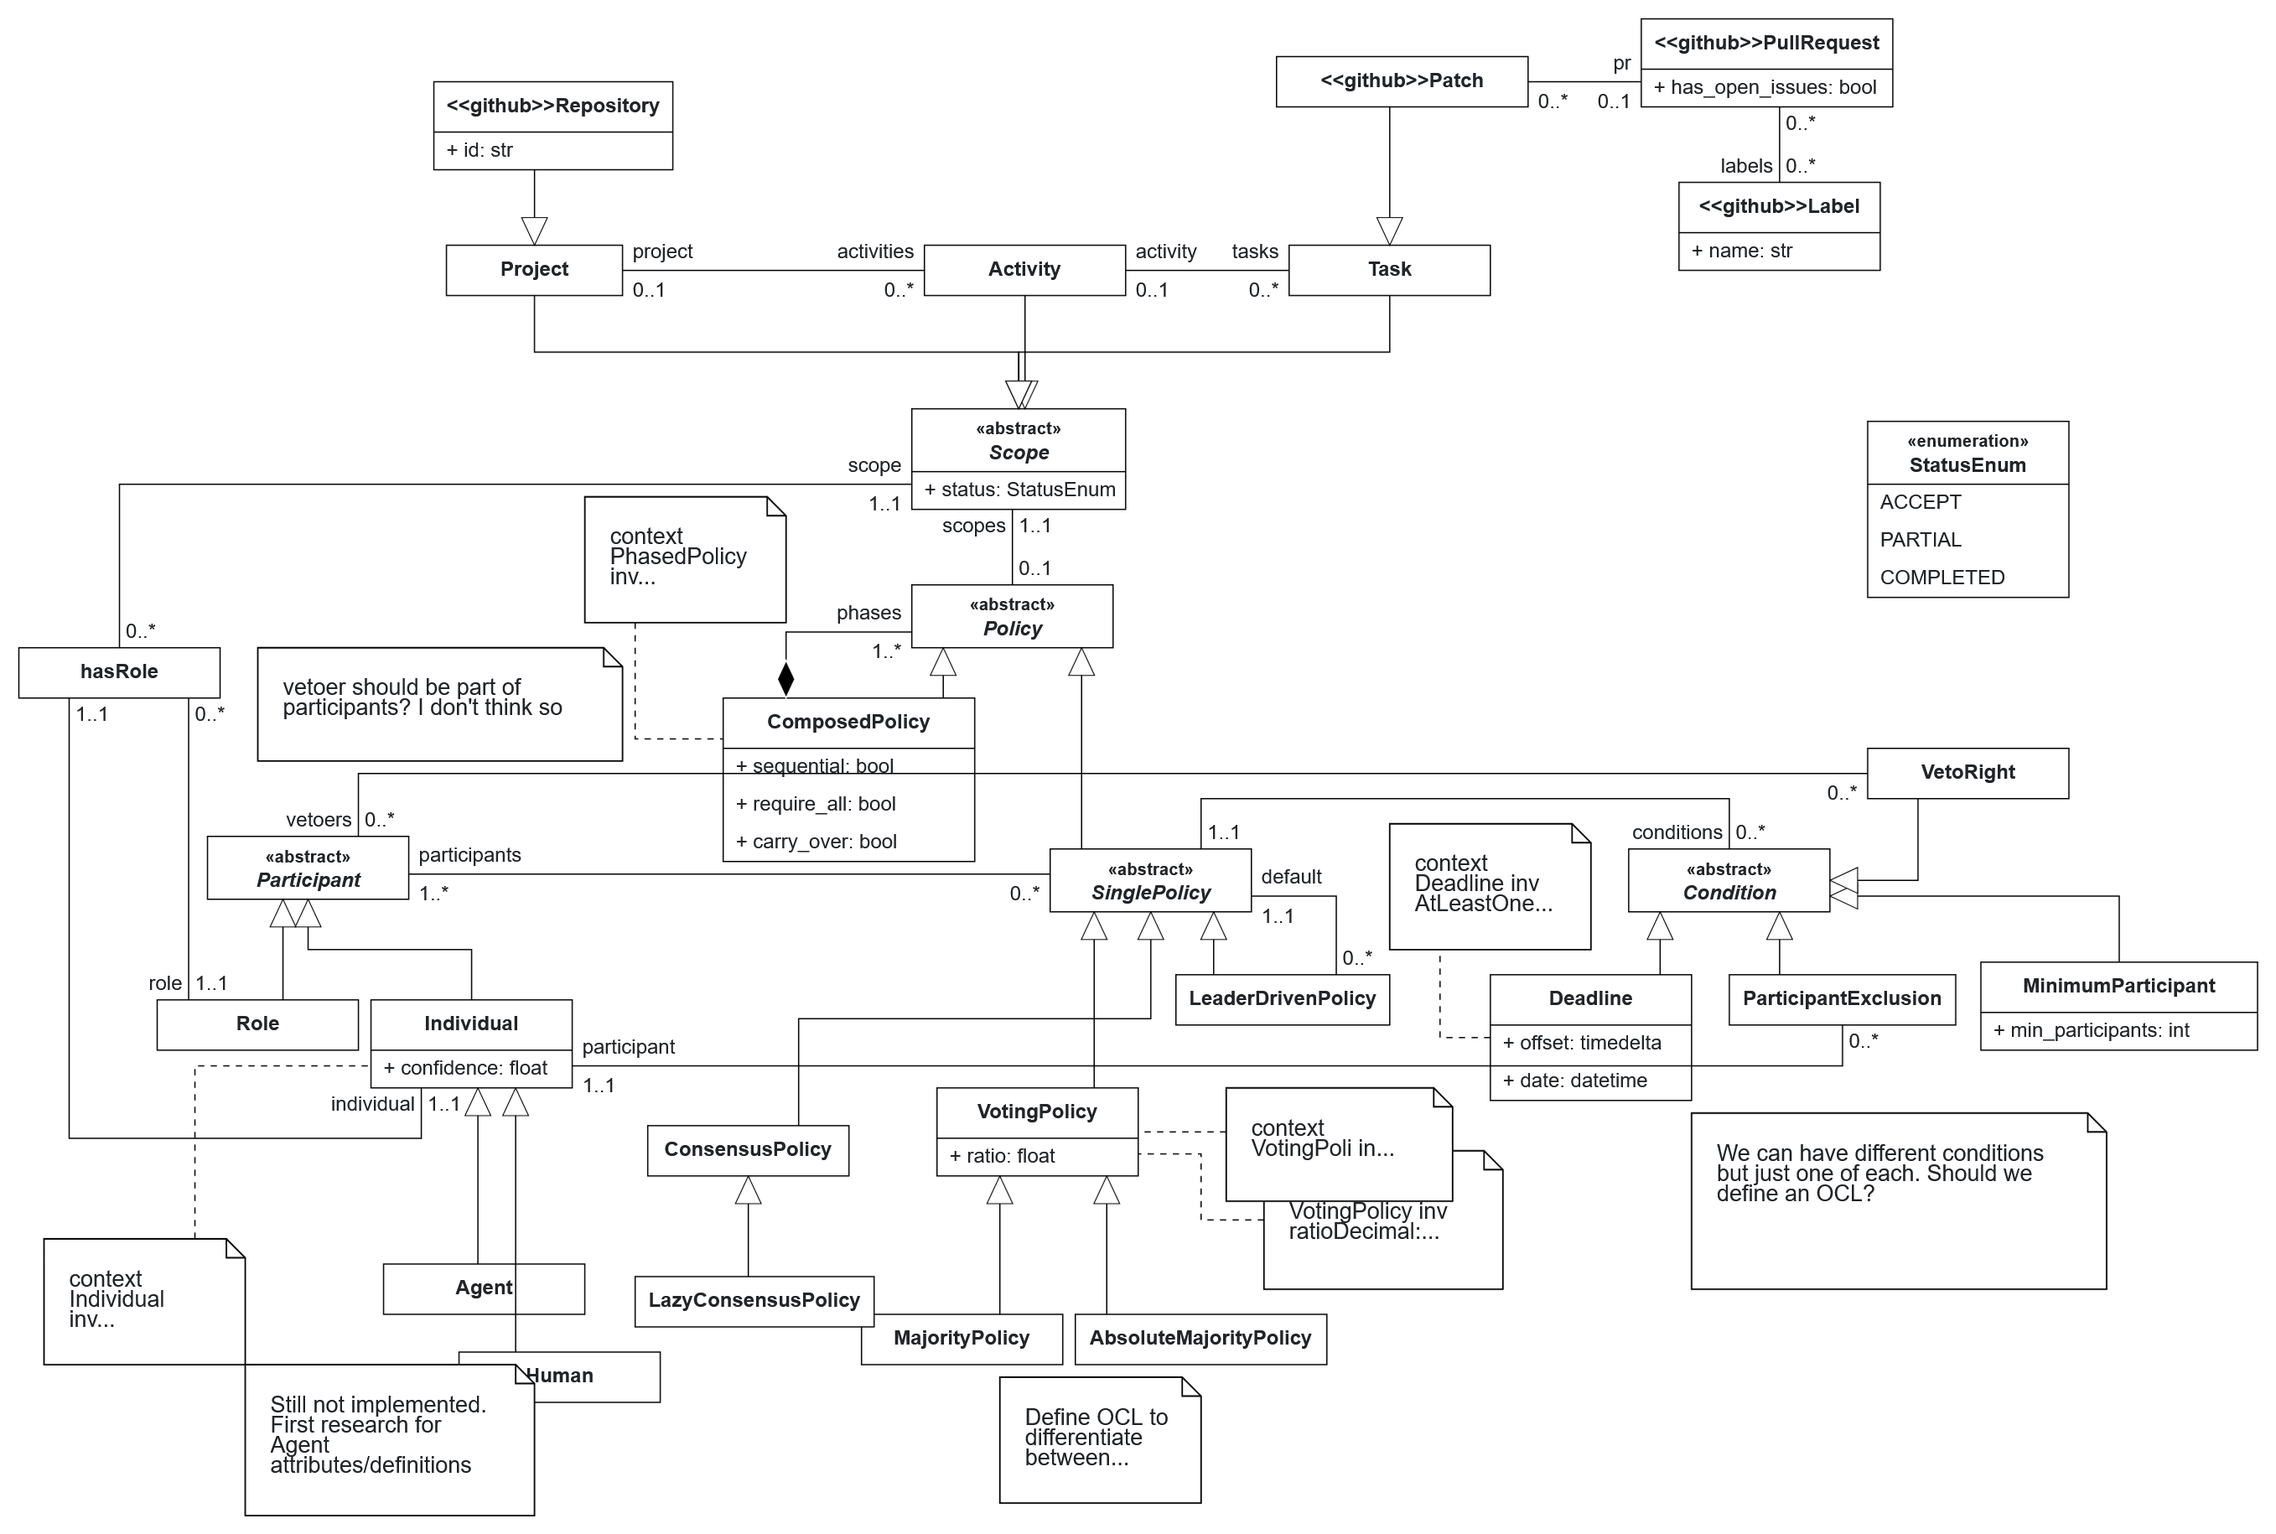
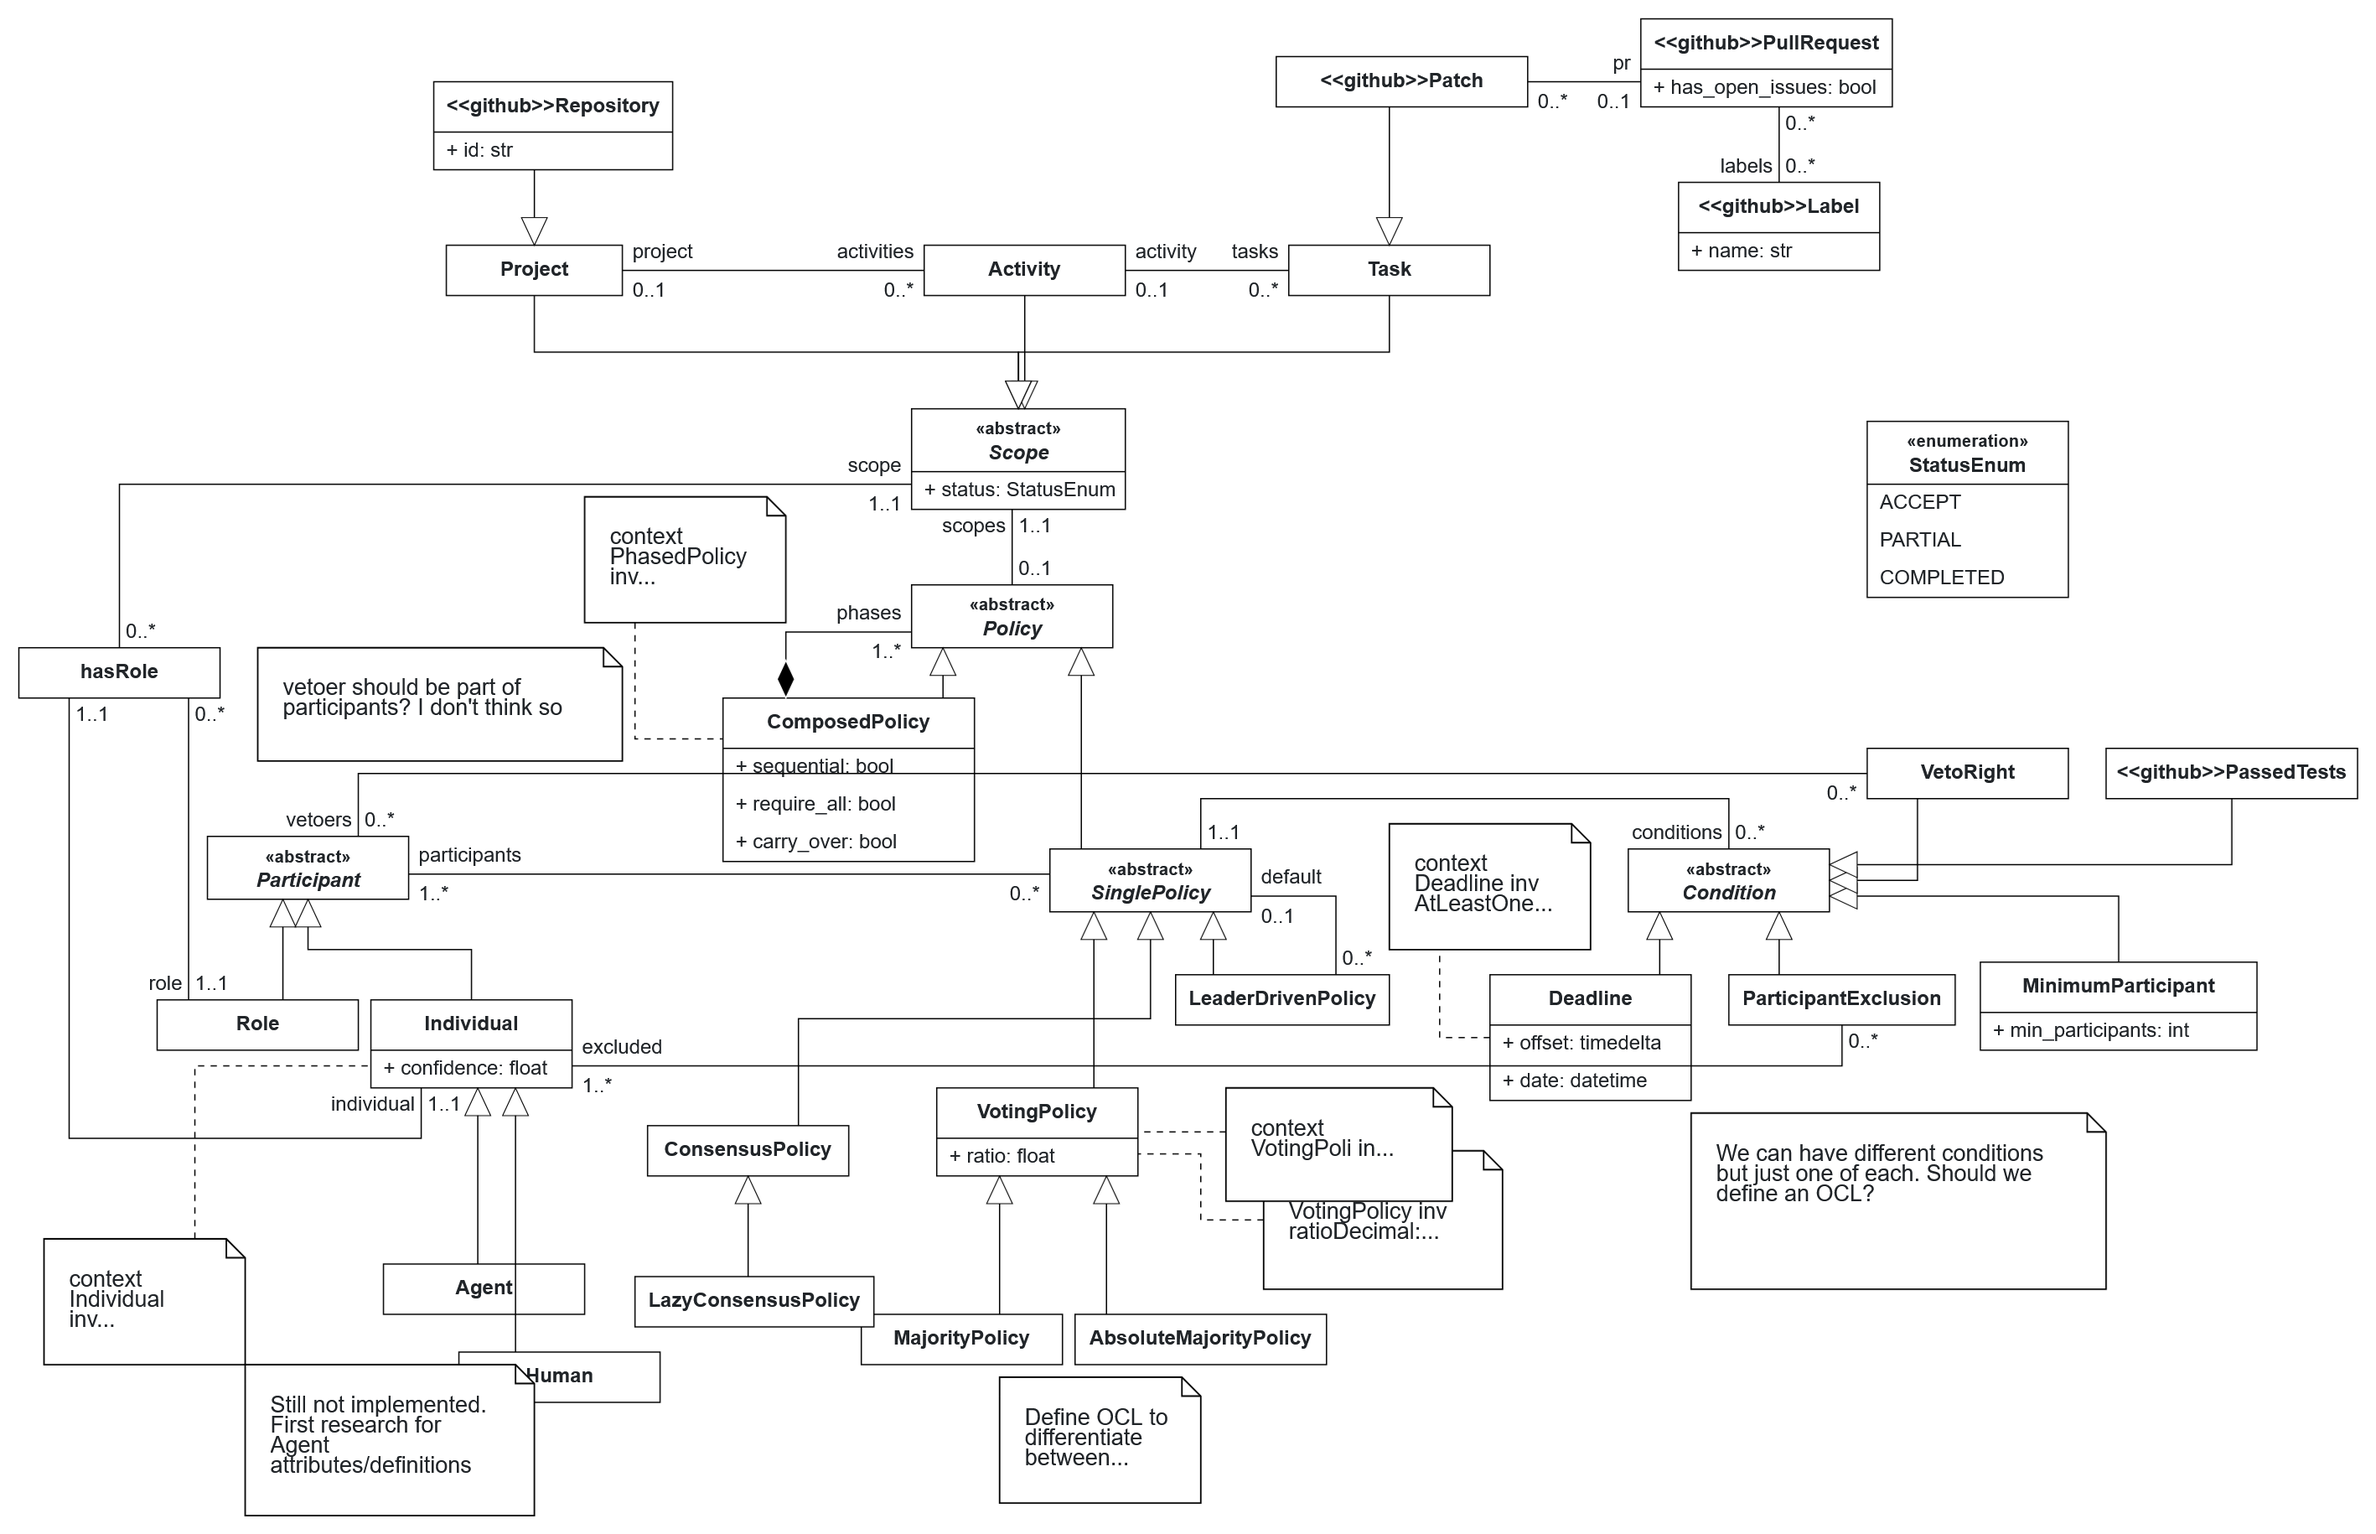
Update: metamodel

diff --git a/metamodel/governance.py b/metamodel/governance.py
@@ -186,19 +186,19 @@ class Deadline(Condition):
         self.__date = date
 
 class ParticipantExclusion(Condition):
-    def __init__(self, name: str, participant: Individual):
+    def __init__(self, name: str, excluded: set[Individual]):
         super().__init__(name)
-        self.participant = participant
+        self.excluded = excluded
     
     @property
-    def participant(self) -> Individual:
-        return self.__participant
+    def excluded(self) -> set[Individual]:
+        return self.__excluded
     
-    @participant.setter
-    def participant(self, participant: Individual):
-        if participant is None:
-            raise UndefinedAttributeException("participant", message="Participant relationship must be defined.")
-        self.__participant = participant
+    @excluded.setter
+    def excluded(self, excluded: set[Individual]):
+        if excluded is None:
+            raise UndefinedAttributeException("excluded", message="Participant relationship (excluded) must be defined.")
+        self.__excluded = excluded
 
 class MinimumParticipant(Condition):
     def __init__(self, name: str, min_participants: int):
@@ -387,11 +387,9 @@ class LeaderDrivenPolicy(SinglePolicy):
     
     @default.setter
     def default(self, default: SinglePolicy):
-        if not default:
-            raise EmptySetException("LeaderDrivenPolicy must have a default policy")
         self.__default = default
         # Only propagate scope after default is set
-        if self.scope:
+        if self.scope and default:
             self.default.scope = self.scope
     
     def propagate_scope(self):

diff --git a/utils/gh_extension.py b/utils/gh_extension.py
@@ -1,6 +1,6 @@
 from enum import Enum
 from besser.BUML.metamodel.structural import Element
-from metamodel.governance import Task, StatusEnum, Project
+from metamodel.governance import Task, StatusEnum, Project, Condition
 
 class ActionEnum(Enum):
     MERGE = 1
@@ -87,3 +87,8 @@ class Patch(Task):
     @element.setter
     def element(self, element: GitHubElement):
         self.__element = element
+
+class PassedTests(Condition):
+    """Represents the condition of passed tests for a GitHub element"""
+    def __init__(self, name: str):
+        super().__init__(name)
